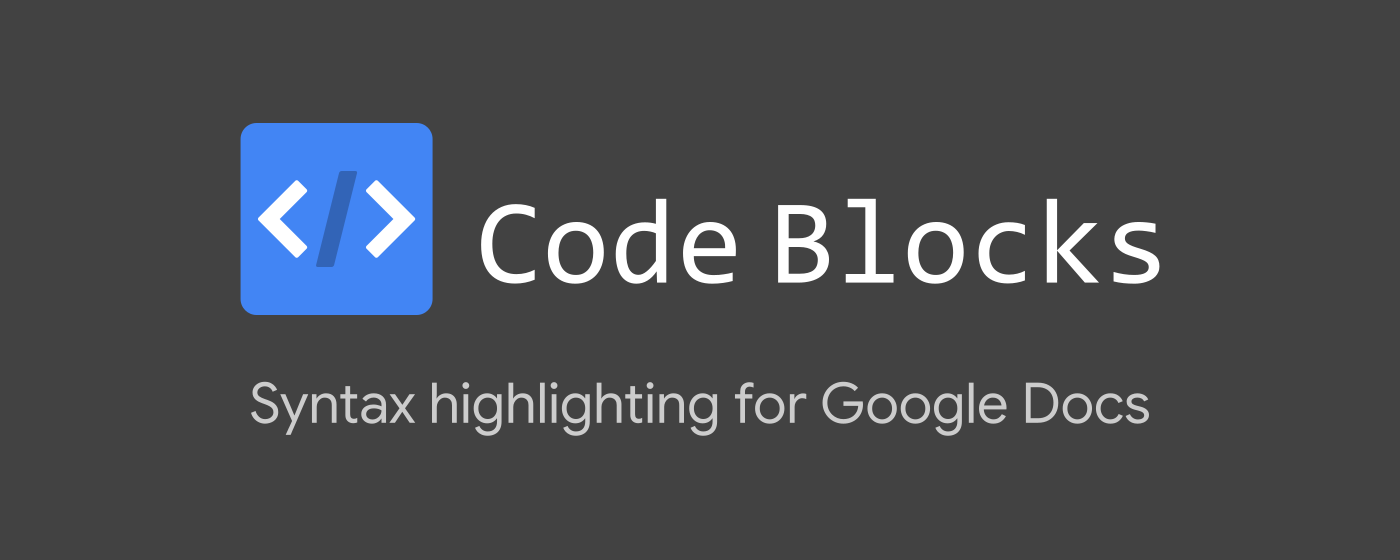
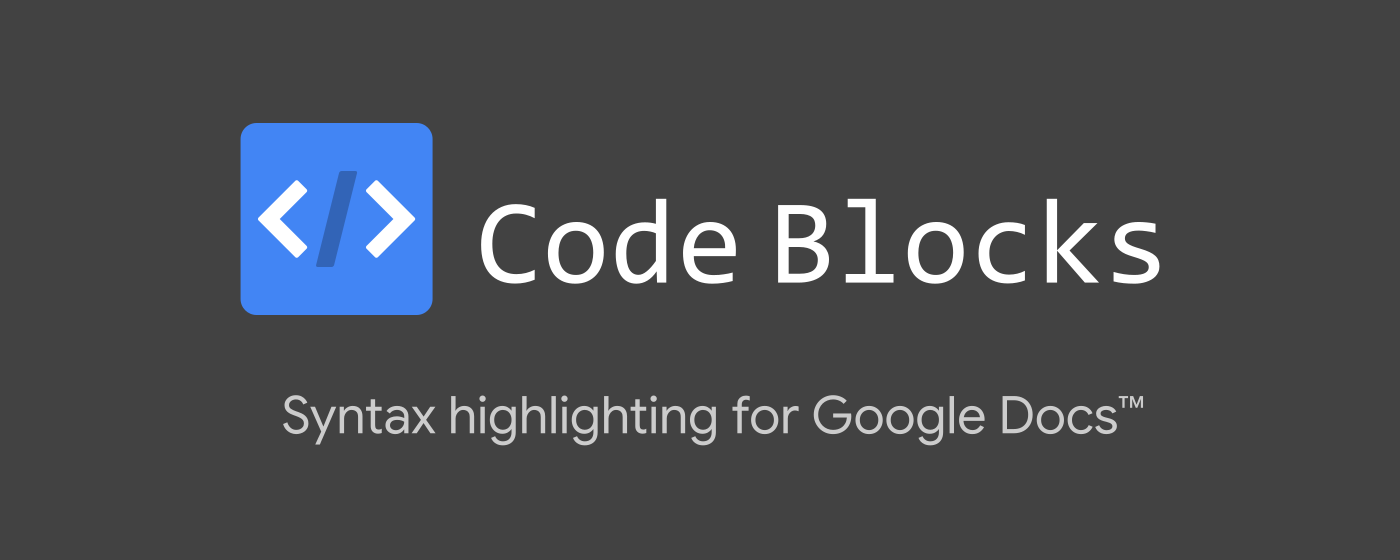
Give attribution for Google trademarks

Changed region(s): [[0.1843, 0.6679, 0.8293, 0.7893]]

diff --git a/README.md b/README.md
@@ -37,7 +37,7 @@ found on the [highlight.js demo page](https://highlightjs.org/static/demo/).
 
 ### Unformatting code
 
-To clear formatting in Docs, highlight the text and select
+To clear formatting in a doc, highlight the text and select
 `Format > Clear Formatting` from the toolbar. The keyboard shortcut is
 <kbd>Cmd</kbd>+<kbd>/</kbd> on OS X and <kbd>Ctrl</kbd>+<kbd>/</kbd> on Windows:
 <https://support.google.com/docs/answer/179738>
@@ -66,24 +66,26 @@ bumps the highlight.js version in [`package.json`](https://github.com/alexwforsy
 ### Real-time syntax highlighting
 
 Codes Blocks uses Google's
-[Apps Script](https://developers.google.com/apps-script/), a server-side
-JavaScript platform, to interact with Docs and format code. Each time the add-on
-formats a snippet of code, a request is made to the Apps Script backend to
-modify the current Doc. There are a few limitations of this platform that
+[Apps Script](https://developers.google.com/apps-script/)™, a server-side
+JavaScript platform, to interact with Docs™ and format code. Each time the
+add-on formats a snippet of code, a request is made to the apps script backend
+to modify the current doc. There are a few limitations of this platform that
 prevent Code Blocks from formatting code as you type:
-* The [`onEdit`](https://developers.google.com/apps-script/guides/triggers#onedite)
-event that fires when a user modifies content is only available in Sheets
-* [Time-driven triggers](https://developers.google.com/apps-script/guides/triggers/installable#time-driven_triggers)
-can only be used once per hour at most
-* Each request to modify the current Doc can take multiple seconds, so code
-formatting cannot be performed in real-time
-* The number of requests needed to update a Doc in near real-time may exceed
-the service API quotas
+
+- The
+  [`onEdit`](https://developers.google.com/apps-script/guides/triggers#onedite)
+  event that fires when a user modifies content is only available in Sheets™
+- [Time-driven triggers](https://developers.google.com/apps-script/guides/triggers/installable#time-driven_triggers)
+  can only be used once per hour at most
+- Each request to modify the current doc can take multiple seconds, so code
+  formatting cannot be performed in real-time
+- The number of requests needed to update a doc in near real-time may exceed the
+  service API quotas
 
 ### Keyboard Shortcuts
 
 Keyboard shortcuts can only be handled by Code Blocks if the add-on sidebar is
 focused, which would require users to click the sidebar anyway.
 
-Keyboard events in the active document cannot currently be handled by Docs
+Keyboard events in the active document cannot currently be handled by Docs™
 add-ons: <https://issuetracker.google.com/issues/79461369>
